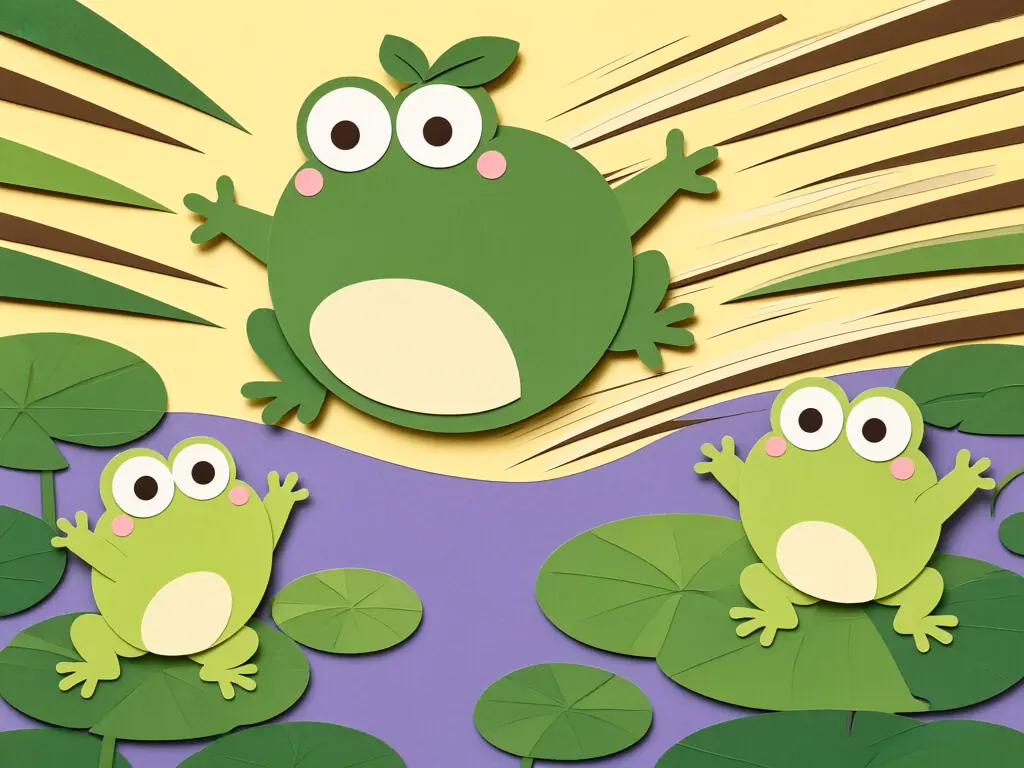
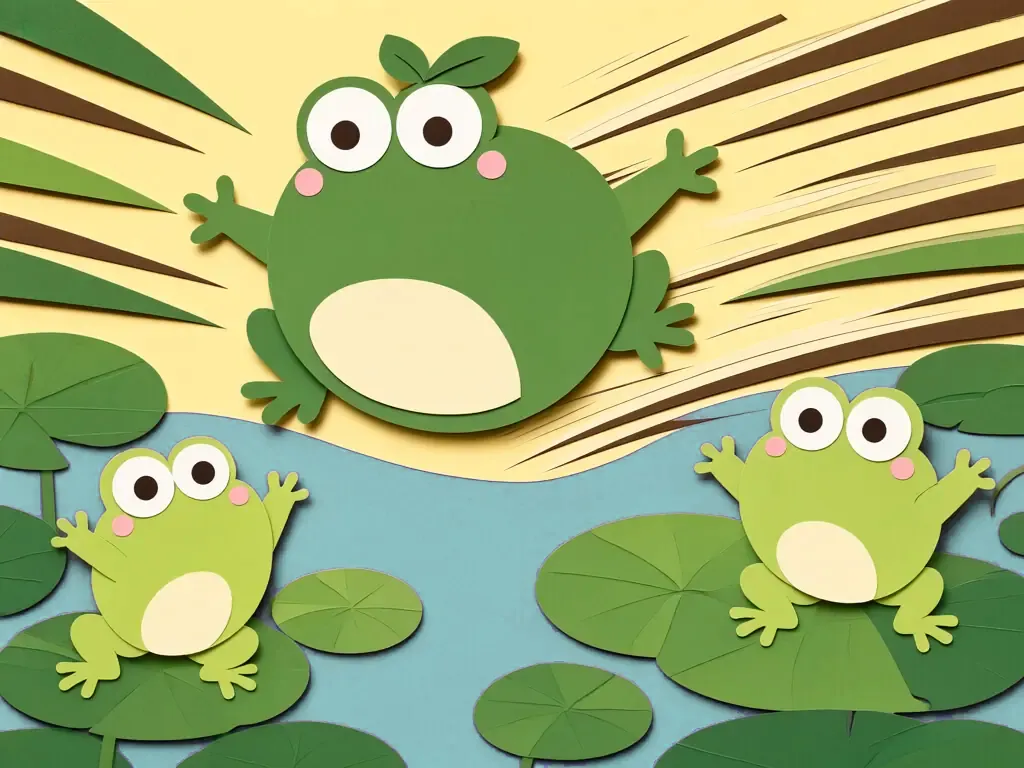
컷신 점검(68개): 팥죽 컷 속 목소리를 해당 그림에 맞춰 나눔, 해님달님 맞지 않는 우물 컷 잠시 빼고 삐걱 컷 호랑이 옷 맞춤, 개구리 컷 보라 물빛을 연못 청록으로
- 점검표 tools/gpu_night/CUTS_AUDIT.md, 다시 뽑을 컷 7장 jobs_cuts.json

Claude-Session: https://claude.ai/code/session_01TGgx6k6hUQMHacUcyCA6Jo

diff --git a/tales/patjuk/patjuk.js b/tales/patjuk/patjuk.js
@@ -308,13 +308,18 @@
 
     /* 만화 컷 (그림): 친구마다 두 장, 틀리면 비웃는 한 장. 4초 뒤 자동, 탭하면 빨리 */
     let lastCut = Promise.resolve();
-    function showCut(id, hold = 4000) {
+    function showCut(id, hold = 4000, split = true) {
       const keys = id.startsWith('wrong_') ? [id] : [id, id + '_b'];
       const V = typeof VOICE_LINES !== 'undefined' ? VOICE_LINES : {};
-      // 컷 속 목소리: 친구의 외침 → 호랑이 비명. 헛수고 컷은 친구가 머쓱 → 호랑이가 비웃음
-      const voiceOf = key => key.startsWith('wrong_')
-        ? [].concat(V['oops_' + key.slice(6)] || [], V[Math.random() < .5 ? 'cut_wrong_1' : 'cut_wrong_2'] || [])
-        : V['cut_' + key];
+      // 컷 속 목소리: 첫 장(친구가 치는 순간) = 친구의 외침, 둘째 장(_b, 호랑이 반응) = 호랑이 비명.
+      // _b 전용 대사가 있거나(지게) 컷을 기다리지 않고 내레이션이 이어지면(split=false, 멍석) 첫 장에서 둘 다 외친다
+      // (내레이션은 이어지는 목소리 묶음이 끝나야 시작하므로, 둘째 장 목소리를 따로 내면 내레이션과 겹친다).
+      // 헛수고 컷은 친구가 머쓱 → 호랑이가 비웃음
+      const voiceOf = key => {
+        if (key.startsWith('wrong_')) return [].concat(V['oops_' + key.slice(6)] || [], V[Math.random() < .5 ? 'cut_wrong_1' : 'cut_wrong_2'] || []);
+        if (key.endsWith('_b')) return V['cut_' + key] || (split ? [].concat(V['cut_' + key.slice(0, -2)] || []).slice(1) : null);
+        return V['cut_' + key + '_b'] || !split ? V['cut_' + key] : [].concat(V['cut_' + key] || []).slice(0, 1);
+      };
       const list = keys.map(key => ({ src: cutUrl(key), sfx: key.startsWith('wrong_') ? 'laugh' : CUT_SFX[key], voice: voiceOf(key) }));
       const onShow = o => { punch(o); if (o.voice && o.voice.length) setTimeout(() => AudioFX.voice(o.voice), 380); };
       lastCut = lastCut.then(() => T.cutImage(list, { hold, onShow }));
@@ -651,7 +656,7 @@
       async myeongseok() {
         AudioFX.roll();
         impact(560, 400, '돌돌돌!');
-        showCut('myeongseok'); // 말리는 동안 컷 (기다리지 않음)
+        showCut('myeongseok', 4000, false); // 말리는 동안 컷 (기다리지 않음 → 목소리는 첫 장에 몰아서)
         await anim(act('myeongseok'), [{ transform: 'translate(0px,0px) rotate(0deg)' }, { transform: 'translate(-10px,-40px) rotate(-360deg) scale(1.25)' }, { transform: 'translate(0px,-6px) rotate(-720deg) scale(1.1)' }], { duration: 900, easing: 'ease-in-out' });
         pose(null);
         tiger.pos.style.opacity = 0;

diff --git a/tales/sunmoon/sunmoon.js b/tales/sunmoon/sunmoon.js
@@ -63,7 +63,8 @@
     lamp_flame: 'v3w/sm_lamp_flame.webp', // 등잔 불꽃만 — 방 그림 속 등잔 심지 위에 켠다
     sun_girl: 'v3w/sm_sun_girl2.webp', moon_boy: 'v3w/sm_moon_boy2.webp', lamp_on: 'v3w/sm_lamp_on.webp', lamp_off: 'v3w/sm_lamp_off.webp',
     basket: null,
-    cut_well: 'v3w/sm_cut_well2.webp', cut_snap: 'v3w/sm_cut_snap.webp', cut_eye: null,
+    cut_well: null, // sm_cut_well2는 오누이가 우물 옆 땅에 서 있어(나무 위가 아님, 호랑이도 없음) 내레이션과 어긋나 뺌 → jobs_cuts.json의 sm_cut_well3로 다시 뽑아 연결
+    cut_snap: 'v3w/sm_cut_snap.webp', cut_eye: null,
   };
   const artOK = {};
   const artUrl = k => (ART[k] && artOK[k] !== false ? AS + ART[k] : null);
@@ -1238,14 +1239,14 @@
     const cutText = (svg, t, s = 40) => el('text', { x: 200, y: 50, 'text-anchor': 'middle', 'font-size': s, fill: C.bean, stroke: '#fff', 'stroke-width': 7, 'paint-order': 'stroke', 'font-family': "'Pretendard Variable', Pretendard, sans-serif", text: t }, svg);
     await T.cut(svg => {
       if (!ropeArt(T, svg, 'rope_bad', 200, 150, .3, -20)) el('path', { d: 'M200 0 V120 Q210 150 196 180', stroke: '#9A8466', 'stroke-width': 7, fill: 'none', 'stroke-dasharray': '30 6' }, svg);
-      const g = el('g', { transform: 'translate(200,300) scale(.85)' }, svg); const P = drawTiger(T, g); P.wear('scarf'); P.setBelly(2.4);
+      const g = el('g', { transform: 'translate(200,300) scale(.85)' }, svg); const P = drawTiger(T, g); P.setBelly(2.4); // 나무 위(도끼)·뚝·엉덩방아 그림과 같이 엄마 옷 없이
       cutText(svg, '삐걱… 삐걱…', 34);
       cutVoice('cut_creak', 500);
     }, { hold: 2200 });
     creak(T);
     await (cutArt(T, 'cut_snap', 'pow', 2200, () => cutVoice('cut_snap', 250)) || T.cut(svg => {
       el('path', { d: 'M200 0 V90 L190 100 M205 100 L212 92', stroke: '#9A8466', 'stroke-width': 7, fill: 'none' }, svg);
-      const g = el('g', { transform: 'translate(200,320) scale(.85) rotate(12)' }, svg); const P = drawTiger(T, g); P.wear('scarf'); P.oMouth(); P.setBelly(2.4);
+      const g = el('g', { transform: 'translate(200,320) scale(.85) rotate(12)' }, svg); const P = drawTiger(T, g); P.oMouth(); P.setBelly(2.4);
       cutText(svg, '뚝!', 64);
       cutVoice('cut_snap', 250);
     }, { sfx: 'pow', hold: 2200 }));

diff --git a/tools/gpu_night/CUTS_AUDIT.md b/tools/gpu_night/CUTS_AUDIT.md
@@ -1,0 +1,183 @@
+# 컷신 점검표 (CUTS_AUDIT) — 2026-10-03
+
+열두 동화의 컷(그림 컷 `T.cutImage`, 코드 컷 `T.cut`, 팥죽 `showCut`)을 하나씩 내레이션·무대와 맞춰 봤다.
+보는 기준: ① 그 순간의 이야기(행동·인물·물건) ② 지금 무대의 인물 모습 ③ 방향·앞뒤 상태 ④ 뜨는 때 ⑤ 컷 속 목소리·스팅 ⑥ 그림 품질.
+
+판정: **OK** / **코드로 고침** / **다시 뽑기**(`tools/gpu_night/jobs_cuts.json`, 아직 안 돌림) / **뺌**
+
+## 한눈에
+
+| | 개수 |
+|---|---|
+| 점검한 컷 | 68 (그림 컷 53, 코드 컷 15) |
+| OK (작은 흠 포함) | 48 |
+| 코드로 고침 | 14 — 팥죽 10장(목소리를 맞는 장으로; 그중 `jeolgu_b`는 그림도 다시 뽑기), 해와 달 1(삐걱 컷 호랑이 옷), 개구리 3장(보라 물 → 청록, PIL) |
+| 뺌 (다시 뽑을 때까지) | 1 (해와 달 우물 컷) |
+| 다시 뽑기만 | 5 (팥죽 `jige`·`wrong_jige`, 사자 `paw`·`net`, 골디락스 `eyes`) |
+| 다시 뽑기 작업 | 7 (`jobs_cuts.json`: 위 5 + 우물 + `jeolgu_b`) |
+
+다시 뽑은 그림은 새 이름(`…2`, `…3`)으로 나온다. 고르고 나면 `assets/v3w`(팥죽은 `assets/v2/cut_*.png`)로 옮기고 코드의 그림 이름만 바꾸면 된다.
+
+---
+
+## 1. 팥죽할멈과 호랑이 (patjuk) — `showCut`, 그림 `assets/v2/cut_*.png`
+
+친구마다 두 장(친구가 치는 순간 → `_b` 호랑이 반응) + 틀리면 비웃는 한 장. 한 장에 4초.
+
+| 뜨는 때 | 그림 | 판정 | 바꾼 것 |
+|---|---|---|---|
+| 알밤이 날아가 "톡!" 직후 (`bam`) | 아궁이에서 알밤이 날아와 놀란 호랑이 | 코드로 고침 | 목소리: 첫 장은 알밤 "받아라, 알밤 발사!"만 |
+| 이어서 (`bam_b`) | 두 눈 감싸고 우는 호랑이, 옆에 알밤 | 코드로 고침 | 호랑이 "에구구, 내 눈이야!"를 이 장으로 (전에는 첫 장에 둘 다 몰려 날아오는 알밤 그림 위에서 "내 눈이야"가 나왔다) |
+| 자라가 "앙!" 직후 (`jara`) | 물독 속 자라가 호랑이 입을 문다 | 코드로 고침 | 자라 "앙! 꽉 물었다!"만. 전에는 자라+호랑이 합 4.5초라 4초 컷을 넘쳐 둘째 장까지 걸쳤다 |
+| 이어서 (`jara_b`) | 물독에 엉덩방아, 자라가 가슴에 매달림, 눈물 | 코드로 고침 | 호랑이 "아야야! 내 입! 놔라, 놔!"를 이 장으로 (자라가 아직 매달려 있어 맞음) |
+| 쇠똥에 "꽈당!" 직후 (`ddong`) | 미끄러지는 호랑이, 웃는 쇠똥 | 코드로 고침 | 쇠똥 "여기 미끌미끌 조심해!"만 |
+| 이어서 (`ddong_b`) | 벌렁 누워 눈이 뱅글뱅글 | 코드로 고침 | 호랑이 "으악! 미끄러워!"를 이 장으로 |
+| 송곳 "콕!" 직후 (`songgot`) | 엉덩이를 찌르는 송곳 | 코드로 고침 | 송곳 "콕! 따끔하지?"만 |
+| 이어서 (`songgot_b`) | 펄쩍 뛰어오른 호랑이 | 코드로 고침 | 호랑이 "아얏! 내 엉덩이!"를 이 장으로 |
+| 절구 "쿵!" 직후 (`jeolgu`) | 문 앞, 머리 위에 떨어진 절구, 눈 뱅글 | 코드로 고침 | 절구 "쿵더쿵, 내려간다!"만 |
+| 이어서 (`jeolgu_b`) | 머리 위 혹이 크림색 떡/둥근 덮개처럼 보임, 새 세 마리, 옆 절구는 얼굴 없음 | 코드로 고침 + **다시 뽑기** | 호랑이 "아이고, 내 머리야!"를 이 장으로. 그림은 `cut_jeolgu_b2`(작은 분홍 혹 + 별) |
+| 멍석 "돌돌돌!"과 동시, 기다리지 않음 (`myeongseok`) | 눈밭에서 멍석이 호랑이를 만다 | OK (작은 흠) | 이 컷은 기다리지 않고 바로 내레이션이 이어지므로 목소리는 첫 장에 둘 다 그대로 둔다(`split=false`, 나누면 둘째 장 목소리가 내레이션과 겹침). 흠: 눈밭 — 무대 마당(B2)엔 눈이 없다 |
+| 이어서 (`myeongseok_b`) | 멍석 속에서 우는 호랑이 (눈밭) | OK (작은 흠) | 위와 같이 눈밭 |
+| 바다에 "풍덩!"과 동시 (`jige`) | 상자에 다리 달린 '지게'가 멍석 호랑이를 지고 바닷가를 걸어감 | **다시 뽑기** | 무대 지게는 A자 나무 지게인데 그림은 다리 달린 상자, 그리고 던지는 순간이 아니라 지고 가는 장면. `cut_jige2`(A자 지게가 멍석째 바다로 던짐, 물보라). 목소리는 첫 장에 지게+호랑이, `_b`에 "호랑이 살려!" 그대로 |
+| 이어서 (`jige_b`) | 바다에서 허우적, 보름달 | OK | — |
+| 틀린 친구 (`wrong_bam`) | 배 잡고 웃는 호랑이 + 아궁이 속 알밤 | OK | 친구 머쓱 + 호랑이 비웃음, 'laugh' 스팅 맞음 |
+| (`wrong_jara`) | 웃는 호랑이 + 물독에서 고개 내민 자라 | OK | — |
+| (`wrong_ddong`) | 쇠똥을 건너뛰며 웃는 호랑이 | OK | — |
+| (`wrong_songgot`) | 웃는 호랑이 + 바닥에 꽂힌 송곳 | OK | — |
+| (`wrong_jeolgu`) | 웃는 호랑이 + 빗나간 절구 | OK | — |
+| (`wrong_myeongseok`) | 웃는 호랑이 + 펼쳐진 멍석 (눈밭) | OK (작은 흠) | 눈밭 |
+| (`wrong_jige`) | 웃는 호랑이 + 바퀴 달린 지게 (눈밭) | **다시 뽑기** | 지게에 바퀴 — 무대 A자 지게와 다름. `cut_wrong_jige2` |
+
+`assets/v3w/cut_jige.webp`는 어디서도 쓰지 않는다(옛 `cut_jige.png`의 축소판).
+팥죽 친구들은 무대 그림에 얼굴이 있는 '캐릭터'지만, 다시 뽑기 프롬프트에는 규칙대로 물건 얼굴 문구를 넣지 않았다(새 그림의 지게·절구는 얼굴 없이 나올 수 있다).
+
+## 2. 해와 달이 된 오누이 (sunmoon)
+
+| 뜨는 때 | 그림 | 판정 | 바꾼 것 |
+|---|---|---|---|
+| "떡이 없으면 너를 잡아먹어야지!" 뒤 | 코드: 어두운 밤, 호랑이 + "어흥!" (목소리 cut_roar) | OK | — |
+| 이어서 | 코드: 검은 화면 "꿀꺽…" | OK | 엄마가 먹히는 건 보여주지 않는 연출 그대로 |
+| "호랑이는 엄마를 꿀꺽…" 뒤 | 코드: 엄마 옷(분홍 저고리·회색 치마) 입은 호랑이 + "엄마 흉내 내야지~" | OK | — |
+| 우물 얼굴 톡 → 킥킥 뒤, "나무 위에서 오누이가 킥킥" 앞 (`cut_well` = `sm_cut_well2`) | 오누이가 **우물 옆 땅**에 서서 웃음, 호랑이·나무 없음 | **뺌 + 다시 뽑기** | 내레이션(나무 위에 숨음)과 정면으로 어긋나 `ART.cut_well = null`. 컷 없이도 킥킥 소리는 톡 할 때 이미 난다. `sm_cut_well3`(왼쪽 우물 속을 들여다보는 엄마 옷 호랑이, 오른쪽 높은 가지 위에서 입 가리고 웃는 오누이, 가족 사진 참고 `refs`) 나오면 `cut_well: 'v3w/sm_cut_well3.webp'`로 |
+| 낡은 줄이 내려온 뒤 1/3 | 코드: 낡은 동아줄 + 호랑이 + "삐걱… 삐걱…" (목소리 "어, 어어?") | 코드로 고침 | 호랑이가 엄마 옷 차림이었는데, 바로 앞 나무 장면(도끼 그림)과 뒤의 "뚝!"·"쿵! 엉덩방아" 그림은 모두 옷 없는 호랑이 → 이 컷만 옷이 다시 생겼다 사라졌다. 옷을 빼서 맞춤 (그림 없을 때 쓰는 "뚝" 대체 코드 컷도 같이) |
+| 2/3 (`cut_snap`) | 줄이 뚝, 별 모양 '뚝' 터짐과 놀라 떨어지는 호랑이 | OK | 목소리 "으아악! 살려줘~!"·'pow' 맞음. 줄 끝은 안 보이지만 읽힌다 |
+| 3/3 | 코드: 수수밭 + 혹 난 호랑이 + "쿵! 엉덩방아" (목소리 "에구구…") | OK | — |
+
+## 3. 토끼와 거북이 (rabbit)
+
+| 뜨는 때 | 그림 | 판정 | 바꾼 것 |
+|---|---|---|---|
+| 닭 "꼬끼오!" 뒤 (`rab_cut_wake`) | 꼬끼오 하는 닭, 놀라 튀어나가는 토끼(오른쪽으로) | OK | 목소리 "앗!"·'boing' 맞음. (흠: 막 깬 모습보다 벌써 뛰는 모습) |
+| 친구들 응원 뒤 (`rab_cut_dash`) | 오른쪽으로 쌩쌩 달리는 토끼 | OK | 경주 방향(오른쪽) 맞음. 1.8초 뒤 두 번째 '쌩' + 막대 이동 |
+| 골인 직후 (`rab_cut_photo`) | 둘 다 오른쪽으로, 앞선 거북이가 결승 테이프를 끊음 | OK | "사진을 보니… 거북이 코끝이 먼저" 바로 앞 |
+
+## 4. 해님과 바람 (sun_wind)
+
+| 뜨는 때 | 그림 | 판정 | 바꾼 것 |
+|---|---|---|---|
+| 둘째 바람, 모자가 오른쪽 위로 날아간 뒤 (`sw_cut_hat`) | 모자가 오른쪽 위로 휙, "앗" 하는 나그네 | OK | 바람(왼쪽)→오른쪽 방향 맞음 |
+| 넷째 바람, 외투 여밈 (`sw_cut_hold`) | 모자 없이 외투를 꽉 여미며 떠는 나그네 | OK | 모자 날아간 뒤라 모자 없음 맞음 |
+| 다섯 번 뒤 | 코드: 지쳐 땀 흘리는 바람 "헉헉…" (목소리 cut_pant) | OK | — |
+| 해님 셋째 꾹 (`sw_cut_off`) | 외투를 훌러덩 벗는 나그네 | OK | 목소리 "휴우~ 이제 시원하다!"·'swish' 맞음 |
+| "해님과 바람이 마주 보고 웃었어요" 뒤 (`sw_cut_shake`) | 왼쪽 바람·오른쪽 해님 악수 | OK | 무대 자리(바람 왼쪽, 해 오른쪽)와 같음 |
+
+## 5. 황소와 개구리 (frog)
+
+| 뜨는 때 | 그림 | 판정 | 바꾼 것 |
+|---|---|---|---|
+| 연못 장면 시작, "엄마! 괴물을 봤어요" 앞 (`frog_cut_monster`) | 커다란 황소 앞 놀란 아기 개구리 셋 | OK | 'surprise' 맞음 |
+| 마지막 톡 → "뻥!" (`frog_cut_pop`) | 터지는 별 속 엄마 개구리 | 코드로 고침(그림 손질) | 보라 종이 조각 → 청록 (연못 색 맞춤) |
+| 이어서 (`frog_cut_fly`) | 날아가는 엄마, 연잎 위 아기 둘 | 코드로 고침(그림 손질) | **보라색 물 → 무대 연못과 같은 청록**(PIL 색상 이동, 원본은 스크래치패드 백업) |
+| 잡은 뒤 "퐁당!" (`frog_cut_splash`) | 물에 퐁당 떨어진 엄마 | 코드로 고침(그림 손질) | 보라 물·물보라 → 청록 |
+| 황소 "쿵!" 뒤 (`frog_cut_jump`) | 폴짝 뛰는 개구리, 오른쪽 황소 | OK | 무대(황소 오른쪽 물가)와 같음 |
+
+## 6. 커다란 순무 (turnip)
+
+| 뜨는 때 | 그림 | 판정 | 바꾼 것 |
+|---|---|---|---|
+| "강아지랑 고양이가 서로 째려봐요" 뒤 (`tn_cut_glare`) | 왼쪽 강아지·오른쪽 고양이, 사이에 번개 | OK | 줄 순서(강아지 왼쪽, 고양이 오른쪽) 맞음, 목소리 "으르렁!" |
+| 다 함께 꾹 뒤 ×3 | 코드: 흙에서 올라오는 순무 "영~"·"차~"·"쑥!" | OK | 순무 그림 얼굴 없음, 'pow' 마지막 |
+
+## 7. 사자와 생쥐 (lion_mouse)
+
+| 뜨는 때 | 그림 | 판정 | 바꾼 것 |
+|---|---|---|---|
+| "어? 사자가 눈을 떴어요!" 뒤 (`lm_cut_paw`) | 앞발이 쿵, **옆에서** 펄쩍 뛰는 생쥐 | **다시 뽑기** | 바로 뒤 내레이션은 "앞발로 생쥐 꼬리를 탁! 눌렀어요" → `lm_cut_paw2`(앞발이 꼬리 끝만 누름) |
+| "네가? 나를 도와준다고?" 뒤 (`lm_cut_laugh`) | 크게 웃는 사자, 앞에 생쥐 | OK | 목소리 "하하하! 요 조그만 녀석이?" |
+| "앗, 사자가 그물에 걸렸어요!" 뒤 (`lm_cut_net`) | 밧줄 더미에 얽힌 사자, **표정이 평온** | **다시 뽑기** | 목소리 "으으, 누가 좀 도와줘!"·"버둥버둥"과 안 맞음 → `lm_cut_net2`(그물 아래 걱정하는 얼굴) |
+| 줄 열 개를 다 끊은 뒤 (`lm_cut_gnaw`) | 밧줄을 갉아 끊는 생쥐, 오른쪽 사자 | OK | 무대(생쥐가 왼쪽에서 오른쪽으로 갉음)와 같음 |
+
+## 8. 여우와 두루미 (fox_crane)
+
+| 뜨는 때 | 그림 | 판정 | 바꾼 것 |
+|---|---|---|---|
+| 부리 톡 세 번 뒤 (`fc_cut_peck`) | 오른쪽 두루미가 납작 접시를 콕 | OK | 무대 자리(두루미 오른쪽) 맞음, 목소리 "부리가 안 닿아!" |
+| 여우가 다 핥은 뒤 (`fc_cut_lick`) | 접시를 핥는 여우 | OK | — |
+| 코가 병에 쏙 (`fc_cut_stuck`) | 병 입구에 코가 낀 여우 | OK (작은 흠) | 병 모양이 무대의 호리병과 다름(일자 병). 최근 다시 뽑은 그림이라 그대로 |
+| 둘 다 "미안해" 뒤 (`fc_cut_sorry`) | 왼쪽 여우·오른쪽 두루미 악수, 하트 | OK | 무대 잔치 자리와 같음 |
+
+## 9. 골디락스와 곰 세 마리 (goldilocks)
+
+| 뜨는 때 | 그림 | 판정 | 바꾼 것 |
+|---|---|---|---|
+| 뜨거운 죽 고름 (`gl_cut_hot`) | 혀 내민 골디락스 | OK | 목소리 "앗 뜨거!" |
+| 차가운 죽 고름 (`gl_cut_cold`) | 얼음 숟가락에 이 딱딱 | OK | — |
+| 작은 의자에 앉은 뒤 (`gl_cut_crack`) | 부서지는 작은 의자 | OK | 'pow' + 부서짐이 컷 뒤에 — 순서 맞음 |
+| 깬 뒤 (`gl_cut_eyes`) | 골디락스 + 곰 셋 눈 마주침 | **다시 뽑기**(작은 흠) | 곰 순서가 무대와 반대(그림은 아빠가 골디락스 옆, 무대는 아기 곰이 옆) → `gl_cut_eyes2` |
+| 창문 탈출 | 코드: 창틀에 걸린 치마 "앗, 치마가!" | OK | — |
+
+## 10. 브레멘 음악대 (bremen)
+
+| 뜨는 때 | 그림 | 판정 | 바꾼 것 |
+|---|---|---|---|
+| 톡톡 합창 뒤 (`br_cut_crash`) | 창문으로 와장창 들어가는 네 친구 | OK | — |
+| 도둑이 달아난 뒤 (`br_cut_monster` + 코드 글자) | 콧수염 도둑 셋(빨강·초록·갈색 줄무늬)이 달아남 | OK | 무대 도둑 차림과 같음, 목소리 "으악! 괴물이다!" |
+| 도둑 과장 보고 뒤 | 코드: 네 칸(귀신?/콕?/거인?/재판관?) | OK | — |
+
+## 11. 개미와 베짱이 (ant_grasshopper)
+
+| 뜨는 때 | 그림 | 판정 | 바꾼 것 |
+|---|---|---|---|
+| 소나기, 개미 우산 뒤 (`ag_cut_sneeze` + "에취!") | 재채기하는 베짱이 | OK (작은 흠) | 뒤 배경이 맑은 하늘(비 없음) |
+| 첫눈 장면 앞 | 코드: 눈송이 "펑펑!" | OK | — |
+| 똑똑 장면 앞 (`ag_cut_shiver` + "오들오들") | 눈밭에서 떠는 베짱이 | OK | 목소리 "으으, 추워라…" |
+| 문을 활짝 연 뒤 (`ag_cut_door` + "활짝!") | 왼쪽 개미가 문 열고, 오른쪽 베짱이 | OK (작은 흠) | 무대 자리 같음. 무대 개미는 목도리를 했는데 그림엔 없음 |
+
+## 12. 미운 아기 오리 (ugly_duckling)
+
+| 뜨는 때 | 그림 | 판정 | 바꾼 것 |
+|---|---|---|---|
+| 기러기와 놀던 중 | 코드: "쾅!" | OK | — |
+| 고양이 "가르릉 할 줄 아니?" 뒤 ×2 | 코드: 아기 오리 "가르릉…" → "꽥!" | OK | 목소리 cut_purr / cut_quack |
+
+---
+
+## 다시 뽑기 작업 (`tools/gpu_night/jobs_cuts.json`, 7개 · 돌리지 않음)
+
+| 이름 | 바탕 작업 | 고친 점 |
+|---|---|---|
+| `sm_cut_well3` | `jobs_fb3.json` `sm_cut_well2` | 왼쪽 우물을 들여다보는 호랑이(엄마 분홍 저고리·회색 치마), 오른쪽 높은 가지 위에서 입 가리고 킥킥 웃는 오누이. 가족 사진 `refs`(boy2, girl), 한복·자연스러운 살구빛 살결 |
+| `cut_jeolgu_b2` | `jobs_extra.json` `cut_jara`(팥죽 컷 틀) | 작은 분홍 혹 + 도는 별, 옆에 넘어진 절구 (떡·모자 같은 혹 금지) |
+| `cut_jige2` | 〃 | A자 나무 지게가 멍석에 말린 호랑이를 바다로 던짐 + 물보라 (바퀴·상자·다리 금지, 눈 금지) |
+| `cut_wrong_jige2` | 〃 | 웃는 호랑이 + 빈 A자 지게 (바퀴 금지, 눈 금지) |
+| `lm_cut_paw2` | `jobs_lion_mouse.json` `lm_cut_paw` | 앞발이 생쥐 꼬리 끝만 눌러 못 도망감 |
+| `lm_cut_net2` | `jobs_lion_mouse.json` `lm_cut_net` | 진짜 그물(마름모 눈) 아래서 버둥, 걱정하는 얼굴 |
+| `gl_cut_eyes2` | `jobs_goldilocks.json` `gl_cut_eyes` | 왼쪽 골디락스, 오른쪽 아기·엄마·아빠 곰 순서 |
+
+나온 뒤 연결: `sm_cut_well3` → `tales/sunmoon/sunmoon.js` `ART.cut_well`; 팥죽 셋 → `assets/v2/cut_jeolgu_b.png`·`cut_jige.png`·`cut_wrong_jige.png` 자리; 사자 둘 → `lm_cut_paw.webp`·`lm_cut_net.webp` 자리; 골디락스 → `gl_cut_eyes.webp` 자리.
+
+## 목소리 메모 (녹음 파일은 건드리지 않음)
+
+- 팥죽: 녹음은 그대로, **어느 장에서 트는지만** 바꿨다. 둘째 장(호랑이 반응)에 호랑이 대사가 붙어서 그림과 맞고, 4초 컷을 넘치던 자라(1.4초+3.1초) 같은 경우도 없어졌다.
+- 팥죽 `jara_b`: 호랑이 "내 입! 놔라, 놔!" — 그림에서 자라는 입이 아니라 가슴에 매달려 있다. 지금은 괜찮지만 다시 녹음할 일이 있으면 "아야야, 저리 가!" 쪽이 더 맞다.
+- 다른 동화의 컷 속 대사(해와 달 cut_roar/mimic/creak/snap/bump, 사자 cut_paw/laugh/net, 여우 cut_peck/lick/stuck, 골디락스 cut_hot/cold/crack/eyes/skirt, 해님 cut_pant/off, 개구리 cut_pop, 순무 cut_glare/heave, 개미 cut_sneeze/shiver, 브레멘 cut_monster/ghost, 오리 cut_purr/quack)은 그림과 맞다.
+
+## 시험
+
+| 동화 | 1280×720 | 390×844 |
+|---|---|---|
+| patjuk | 끝까지, 222초, JS 오류 0, 빠진 녹음 0 | 끝까지, 208초, 0 / 0 |
+| sunmoon | 끝까지, 192초, 0 / 0 | 끝까지, 204초, 0 / 0 |
+| frog | 끝까지, 120초, 0 / 0 | 끝까지, 112초, 0 / 0 |
+
+(`regcap.mjs` + `tt_final/regdriver.js`. 팥죽·해와 달은 0.7~0.9초 간격으로 컷 화면도 따로 찍어 확인: 삐걱 컷 호랑이가 이제 뚝·엉덩방아 그림과 같은 옷 없는 모습, 우물 컷 안 뜸.)
